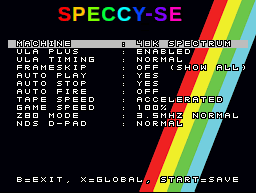
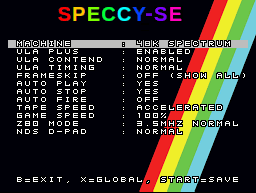
Updated Options Menu graphic for the readme

diff --git a/readme.md b/readme.md
@@ -250,7 +250,7 @@ library of known good working images for Speccy-SE.
 ROM Support :
 -----------------------
 The emulator allows you to load a .ROM file directly into the same memory
-location as the BIOS (+0000 to +4000). The emulator supports up to 16K Interface II 
+location as the BIOS (0x0000 to 0x4000). The emulator supports up to 16K Interface II 
 ROMs, 16K BIOS "replacement" files and 512K banked Dandanator files (e.g. Sword of Ianna). 
 The 16K BIOS replacement mode is mainly used to load diagnostic test programs such 
 as the amazing RETROLEUM DIAGROM. Simply name your file with .ROM and select and load
